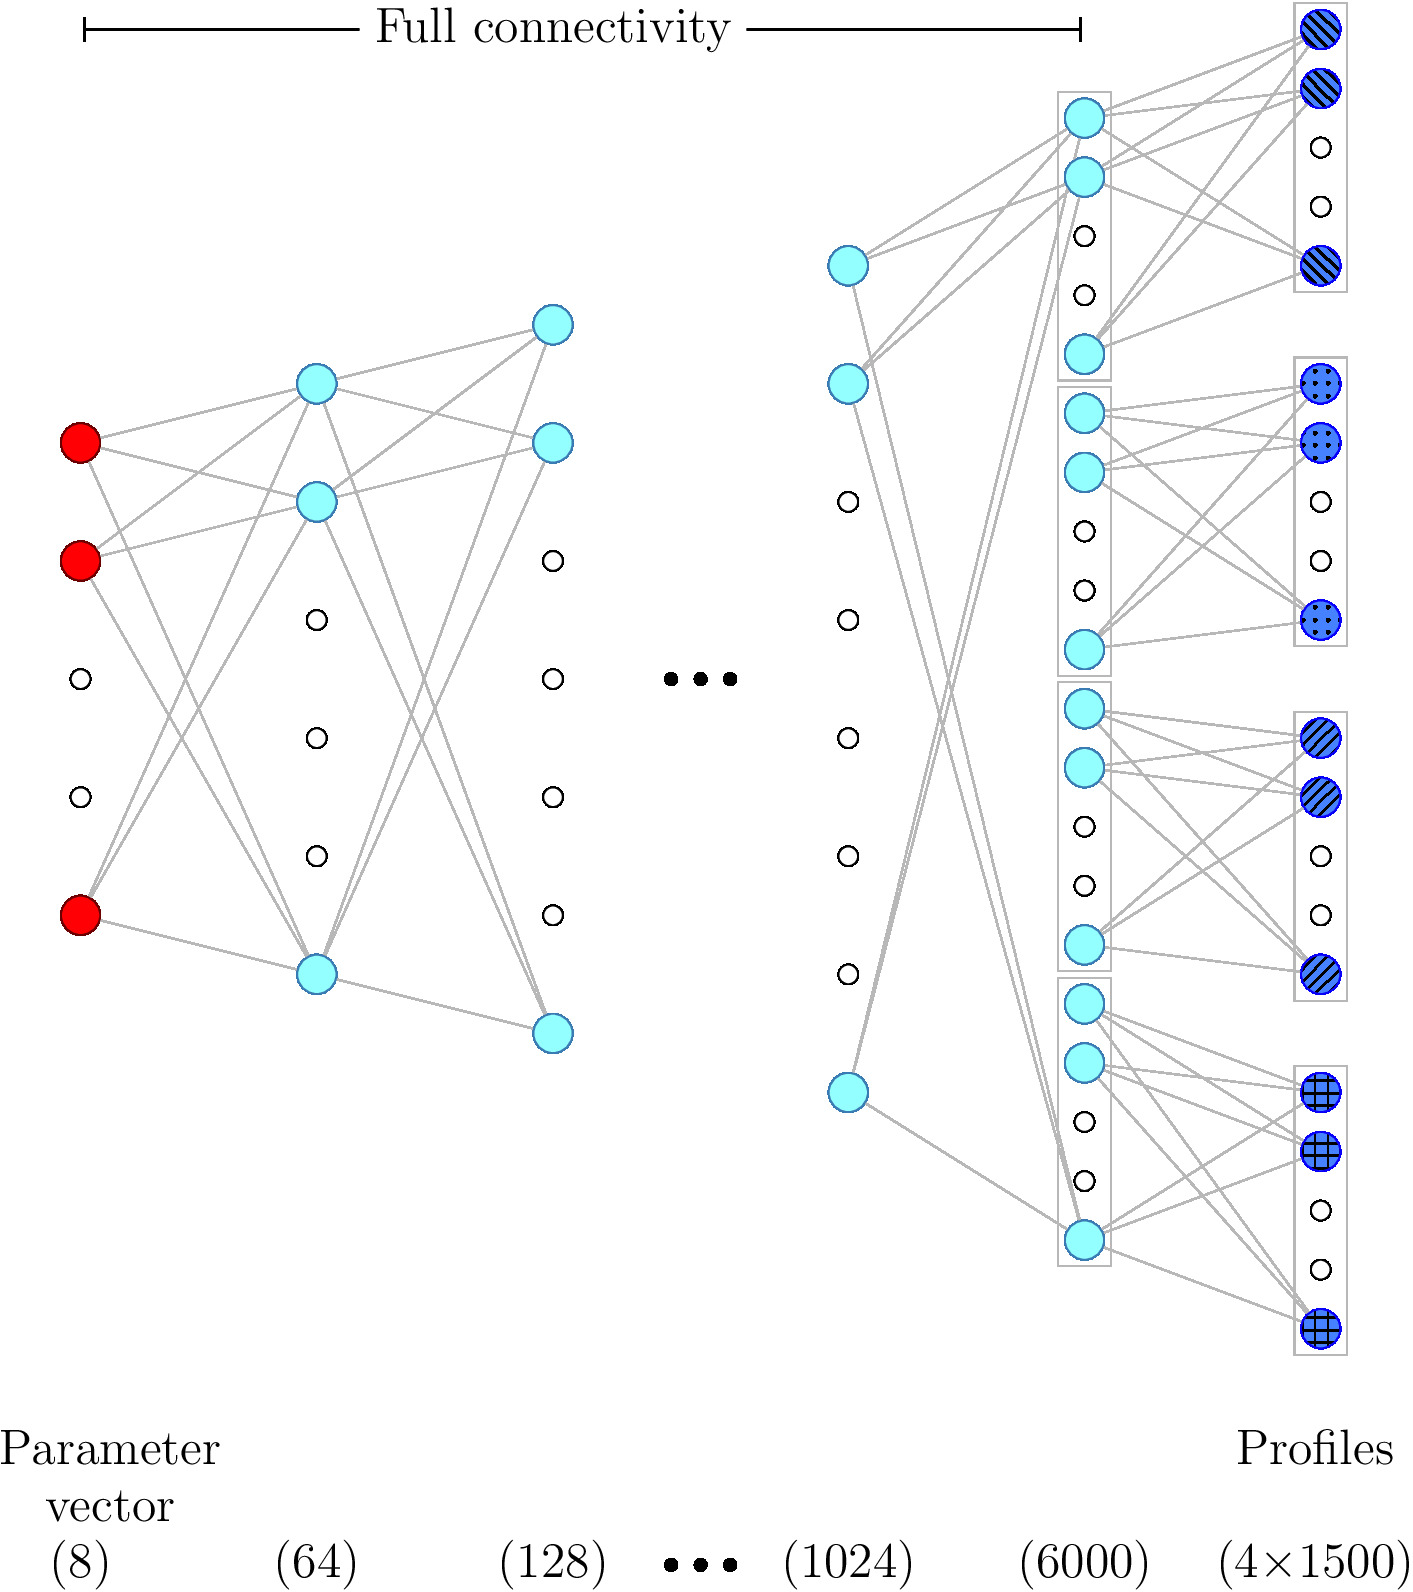
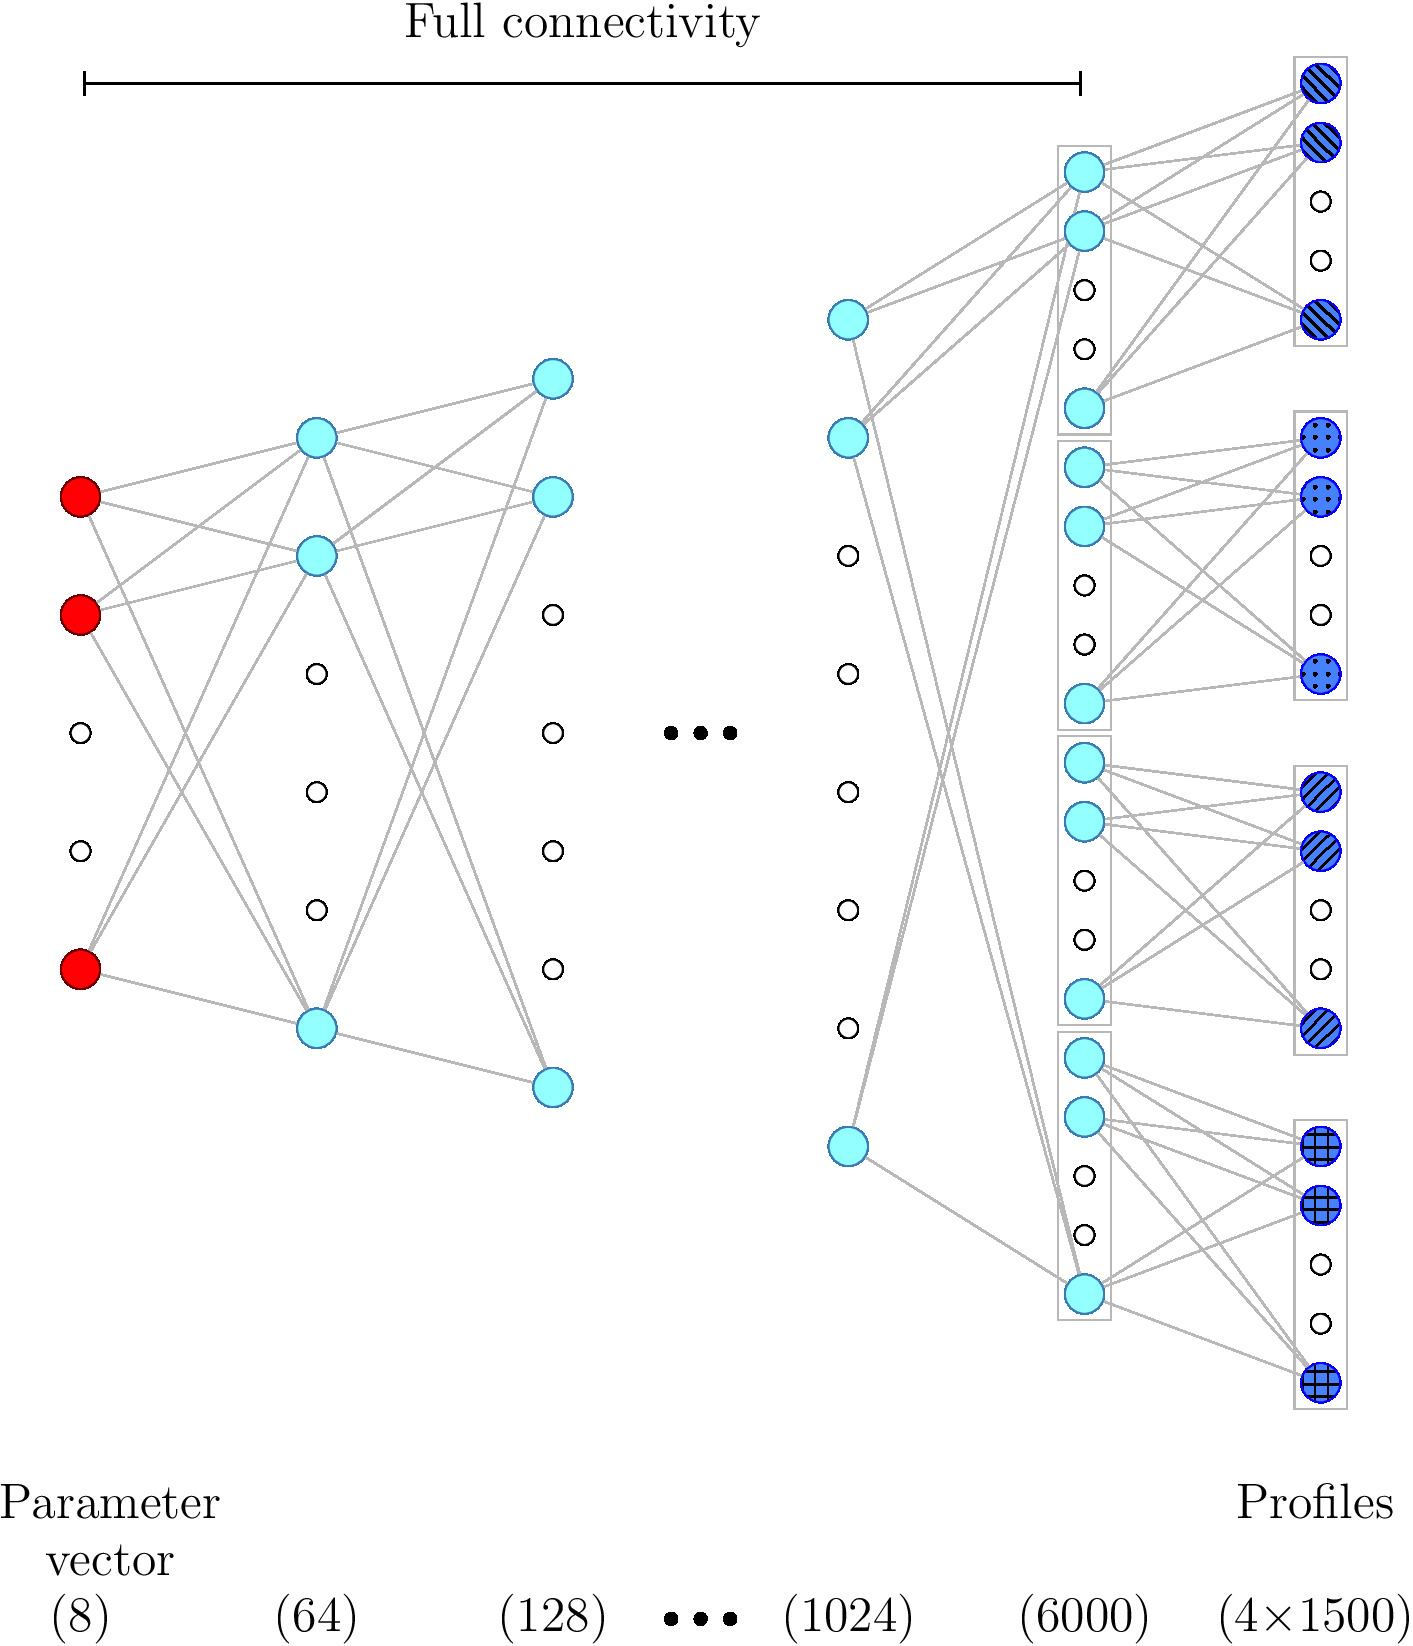
coupled MLP diagram

diff --git a/diagrams/CMLP/CMLP.tex b/diagrams/CMLP/CMLP.tex
@@ -130,9 +130,7 @@
         \node [style={hidden_layer_unit}]       (h42)   at (8.5, -1.25) {};
         \node [style={empty_slot}, scale=0.5]   (h43)   at (8.5, -1.75) {};
         \node [style={empty_slot}, scale=0.5]   (h44)   at (8.5, -2.25) {};  
-        \node [style={hidden_layer_unit}]       (h45)   at (8.5, -2.75) {};            
-        
-        
+        \node [style={hidden_layer_unit}]       (h45)   at (8.5, -2.75) {};         
         
         % output layer (4x1500 units)
         %1
@@ -158,8 +156,7 @@
         \node [style={output_4}]                (o42)   at (10.5, -2.0) {};
         \node [style={empty_slot}, scale=0.5]   (o43)   at (10.5, -2.5) {};
         \node [style={empty_slot}, scale=0.5]   (o44)   at (10.5, -3.0) {};  
-        \node [style={output_4}]                (o45)   at (10.5, -3.5) {};             
-        
+        \node [style={output_4}]                (o45)   at (10.5, -3.5) {};                    
         
         
         % description at the bottom 
@@ -171,7 +168,7 @@
         \node [style=myText] (58) at (2, -5.5) {\large (64)};
         \node [style=myText] (59) at (4, -5.5) {\large (128)};
         
-                % ellipsis    
+        % ellipsis    
         \node [style=ellipsis, scale=0.3] (59a) at (5.0, -5.5) {};
         \node [style=ellipsis, scale=0.3] (59b) at (5.25, -5.5) {};
         \node [style=ellipsis, scale=0.3] (59c) at (5.5, -5.5) {};
@@ -181,9 +178,10 @@
         \node [style=myText] (62) at (10.45, -5.5) {\large (4$\times$1500)};
         \node [style=myText] (63) at (10.45, -4.5) {\large Profiles};
         
-        \node [style=myText] (55) at (4, 7.5) {\large Full connectivity};
         
-        % epmty nodes for docking line at the bottom 
+        % text at the top
+        \node [style=myText] (55) at (4.25, 8.0) {\large Full connectivity};
+        % epmty nodes for docking line at the top 
         \node [style=none] (100) at (0.0,  7.5) {};
         \node [style=none] (101) at (8.5,  7.5) {};
         
@@ -277,8 +275,7 @@
         \draw [style={main_connector}] (h45) to (o42);
         \draw [style={main_connector}] (h41) to (o45);
         \draw [style={main_connector}] (h42) to (o45);
-        \draw [style={main_connector}] (h45) to (o45);    
-        
+        \draw [style={main_connector}] (h45) to (o45);            
         
         
         % draw 4 boxes around the final hidden layers
@@ -293,12 +290,7 @@
         \draw[draw={rgb,255: red,184; green,184; blue,184}, line width=0.1mm] ($(o31.north west)+(-0.1,0.1)$) rectangle ($(o35.south east)+(0.1,-0.1)$);
         \draw[draw={rgb,255: red,184; green,184; blue,184}, line width=0.1mm] ($(o41.north west)+(-0.1,0.1)$) rectangle ($(o45.south east)+(0.1,-0.1)$);
         
-        
-        
-        
     \end{pgfonlayer}
 \end{tikzpicture}
-
-
 
 \end{document}
